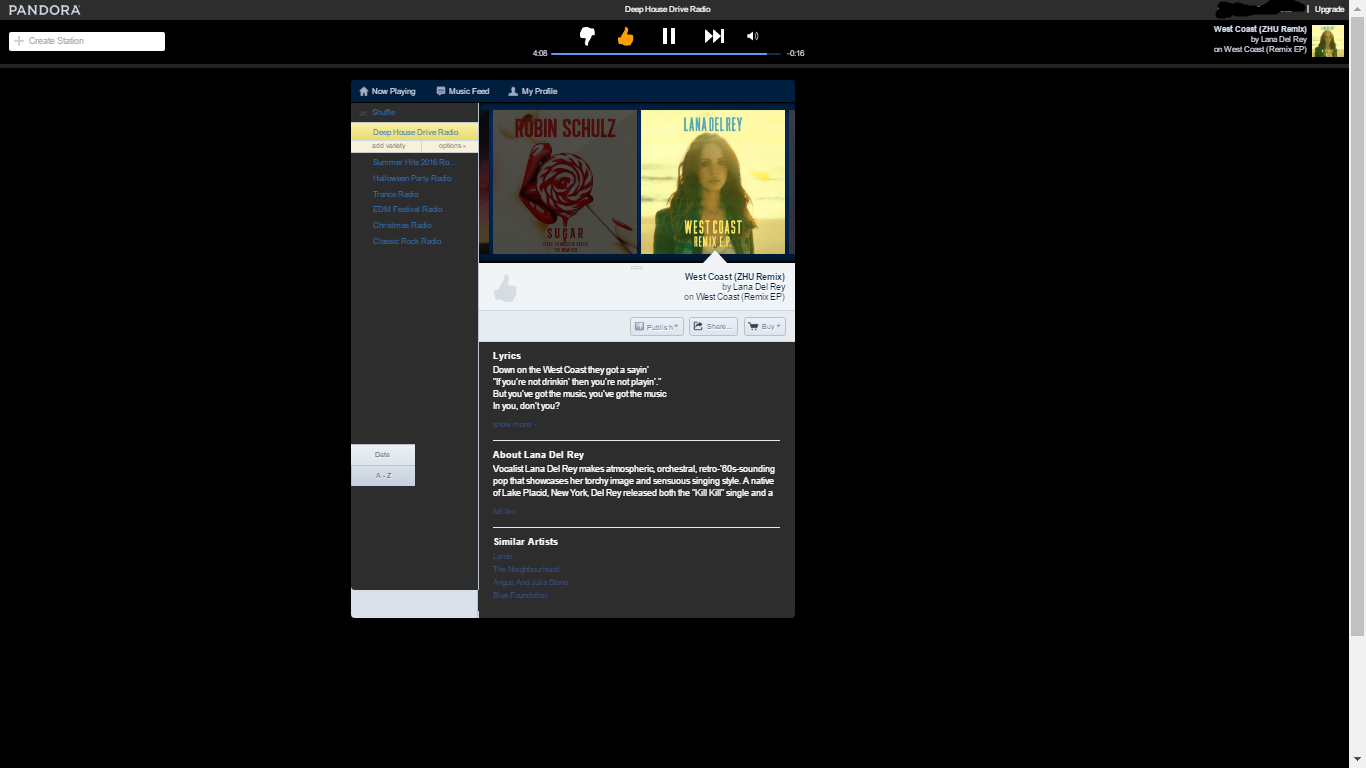
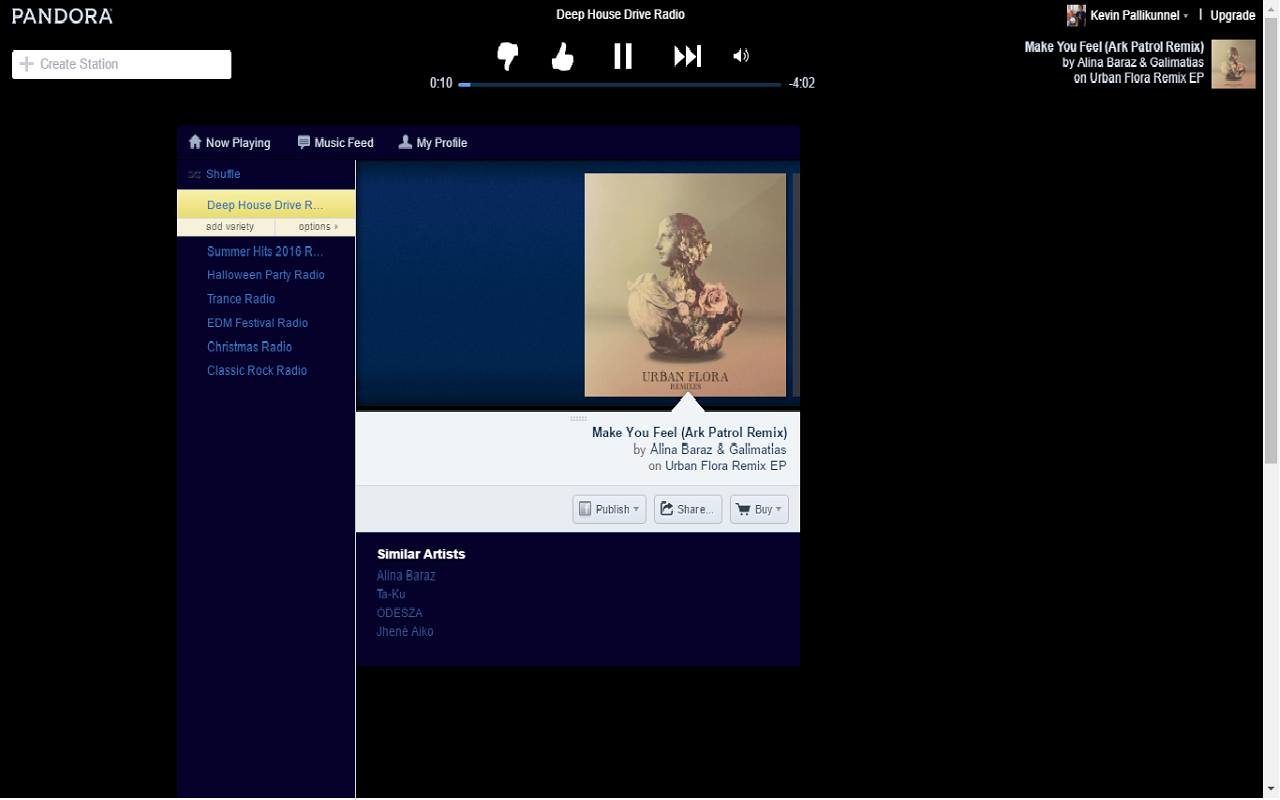
changed color scheme

diff --git a/CSS/darkpandora.css b/CSS/darkpandora.css
@@ -2,9 +2,17 @@
 body{
     background: #000000 !important;
 }
+
+/*Splash Page*/
+#splash{
+	background-image: url(/Pics/black.jpg) !important;
+	background-color: #000000 !important;
+}
+/*Splash Page*/
+
 /*Top bar*/
 #brandingBar{
-	background-color: #2D2D2D !important;
+	background-color: #000000 !important;
 }
 
 #playerBar{
@@ -14,7 +22,7 @@ body{
 
 #topnav{
 	color: #FFFFFF !important;
-	background-color: #232323 !important;
+	background-color: #000000 !important;
 }
 /*Top bar*/
 
@@ -24,18 +32,18 @@ body{
 }
 
 #mainContent .stationContent{
-	background: #2D2D2D !important;
+	background: #05012b !important;
 }
 #trackDetail .detail{
-	color: #2D2D2D !important;
+	color: #05012b !important;
 }
 
 #detailContainer{
-	background-color: #2D2D2D !important;
+	background-color: #05012b !important;
 }
 
 #trackDetailContainer{
-	background-color: #2D2D2D !important;
+	background-color: #05012b !important;
 }
 
 #trackDetail{
@@ -46,10 +54,10 @@ body{
 	color: white !important;
 }
 .contentnav{
-    background-color: #001f3f !important;
+    background-color: #05012b !important;
 }
 .contentContainer .top{
-    background-color: #001f3f !important;
+    background-color: #05012b !important;
 }
 /* Main content */
 
@@ -66,6 +74,10 @@ body{
 	text-shadow: none !important;
 	color: #3476c1 !important;
 }
+
+#stationSortButtons{
+	visibility: hidden !important;
+}
 /* Left Box */
 
 /* Bottom */
@@ -80,3 +92,28 @@ body{
 }
 /* ads */
 
+/* Music Feed */
+.backstage{
+	background-color: #05012b !important;
+	background: #05012b !important;
+}
+.backstage h2{
+	color: #fff !important;
+}
+.backstage .header.hdr_feed{
+	background-color: #05012b !important;
+}
+.hdr_feed .hed-1{
+	color: #fff !important;
+}
+.backstage .col-right-profile-header{
+	background-color: #05012b !important;
+}
+
+/*
+.clearfix{
+	width: 1000px !important;
+}
+.stationListItem.selected .options{
+	display: none !important;
+}
